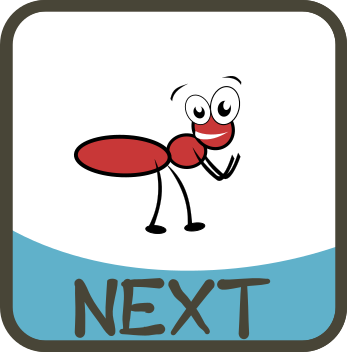
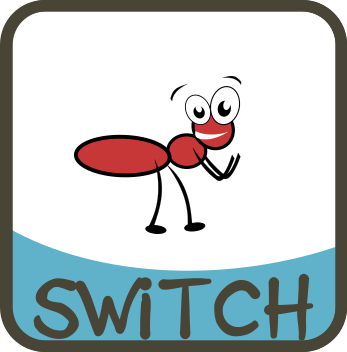
changed controller buttons

Changed region(s): [[0.0865, 0.7812, 0.9222, 0.9688]]

diff --git a/core/src/com/gstrzal/insects/hud/Controller.java b/core/src/com/gstrzal/insects/hud/Controller.java
@@ -48,8 +48,7 @@ public class Controller {
     private Texture controlsButtonTexture;
     private Texture controlsButtonPressedTexture;
     private Texture controlsButtonCheckedTexture;
-    private Texture insectSwitchButtonTexture;
-    private Texture insectSwitchButtonPressedTexture;
+    private Texture insectSwitchButtonTransparentTexture;
     private AssetManager assetManager;
 
 
@@ -143,12 +142,10 @@ public class Controller {
 
 
 
-        //Insect Switch Button
-        insectSwitchButtonTexture = assetManager.get(Constants.CONTROLLER_INSECT_SWITCH);
-        insectSwitchButtonPressedTexture = assetManager.get(Constants.CONTROLLER_INSECT_SWITCH_PRESSED);
+        //Insect Switch Button -- Transparent
+        insectSwitchButtonTransparentTexture = assetManager.get(Constants.CONTROLLER_INSECT_SWITCH_TRANSPARENT);
         ImageButton insectSwitchBtn = new ImageButton(
-                new TextureRegionDrawable(new TextureRegion(insectSwitchButtonTexture)),
-                new TextureRegionDrawable(new TextureRegion(insectSwitchButtonPressedTexture)));
+                new TextureRegionDrawable(new TextureRegion(insectSwitchButtonTransparentTexture)));
         insectSwitchBtn.setPosition(50, BACK_BUTTON_Y - BUTTON_SIZE);
         insectSwitchBtn.setSize(BUTTON_SIZE*2,BUTTON_SIZE*2);
         insectSwitchBtn.addListener(new ActorGestureListener() {

diff --git a/core/src/com/gstrzal/insects/screens/GameScreen.java b/core/src/com/gstrzal/insects/screens/GameScreen.java
@@ -201,7 +201,7 @@ public class GameScreen implements Screen{
         }
 
         //Character Change
-        if (Gdx.input.isKeyJustPressed(Input.Keys.ENTER)){
+        if (Gdx.input.isKeyJustPressed(Input.Keys.ENTER) || Gdx.input.isKeyJustPressed(Input.Keys.SPACE)){
             if(worldContactListener.isOnGrounds() && worldContactListener.isChangePossible()) {
                 characterChange = true;
             }
@@ -377,15 +377,15 @@ public class GameScreen implements Screen{
             nextBesouro = assetManager.get(Constants.NEXT_BESOURO);
             Texture nextInsect;
 
-            float height = nextJoaninha.getHeight() * .8f / Insects.PPM;
-            float width = nextJoaninha.getWidth() * .8f / Insects.PPM;
+            float height = nextJoaninha.getHeight() / Insects.PPM;
+            float width = nextJoaninha.getWidth() / Insects.PPM;
 
             if(insectPlayer instanceof  LBug) nextInsect = nextBesouro;
             else if(insectPlayer instanceof  Besouro) nextInsect = nextAnt;
             else nextInsect = nextJoaninha;
 
             game.batch.draw(nextInsect,
-                    450 / Insects.PPM, ((GameConfig.SCREEN_HEIGHT_PX / Insects.PPM) - height * 1.25f),
+                    50 / Insects.PPM, ((GameConfig.SCREEN_HEIGHT_PX - 250 )/ Insects.PPM) - height/2, //450
                     width, height);
     }
 

diff --git a/core/src/com/gstrzal/insects/screens/LoadingScreen.java b/core/src/com/gstrzal/insects/screens/LoadingScreen.java
@@ -75,8 +75,7 @@ public class LoadingScreen extends ScreenAdapter{
         assetManager.load(Constants.CONTROLLER_CONTROLS, Texture.class);
         assetManager.load(Constants.CONTROLLER_CONTROLS_PRESSED, Texture.class);
         assetManager.load(Constants.CONTROLLER_CONTROLS_CHECKED, Texture.class);
-        assetManager.load(Constants.CONTROLLER_INSECT_SWITCH, Texture.class);
-        assetManager.load(Constants.CONTROLLER_INSECT_SWITCH_PRESSED, Texture.class);
+        assetManager.load(Constants.CONTROLLER_INSECT_SWITCH_TRANSPARENT, Texture.class);
         assetManager.load(Constants.GAME_FONT, BitmapFont.class);
         assetManager.load(Constants.LEVEL_1, TiledMap.class);
         assetManager.load(Constants.LEVEL_2, TiledMap.class);

diff --git a/core/src/com/gstrzal/insects/config/Constants.java b/core/src/com/gstrzal/insects/config/Constants.java
@@ -34,8 +34,7 @@ public class Constants {
     public static final String CONTROLLER_CONTROLS = "menu/button_controls_352x352.png";
     public static final String CONTROLLER_CONTROLS_PRESSED = "menu/button_controls_pressed_352x352.png";
     public static final String CONTROLLER_CONTROLS_CHECKED = "menu/button_options_checked_352x352.png";
-    public static final String CONTROLLER_INSECT_SWITCH = "menu/button_switch_352x352.png";
-    public static final String CONTROLLER_INSECT_SWITCH_PRESSED = "menu/button_switch_pressed_352x352.png";
+    public static final String CONTROLLER_INSECT_SWITCH_TRANSPARENT = "menu/button_switch_transparent_352x352.png";
 
 
 
